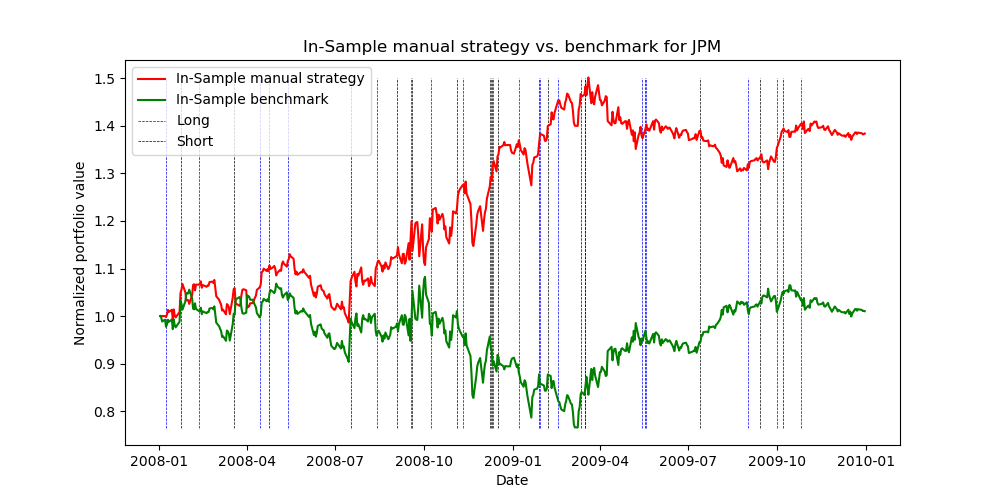
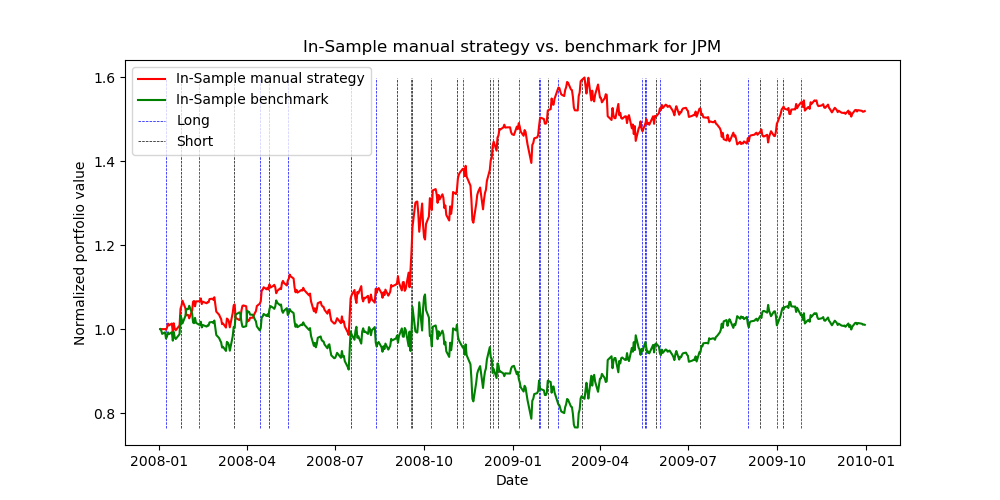
submit3

diff --git a/strategy_evaluation/testproject.py b/strategy_evaluation/testproject.py
@@ -15,7 +15,7 @@ if __name__ == "__main__":
     msms = ManualStrategy.ManualStrategy()
     msms.compareManual(symbol='JPM', sd=dt.datetime(2008, 1, 1), ed=dt.datetime(2009, 12, 31), sv=100000, sample="In-Sample")
     msms.compareManual(symbol='JPM', sd=dt.datetime(2010, 1, 1), ed=dt.datetime(2011, 12, 31), sv=100000, sample="Out-Sample")
-    np.random.seed(1234)
+    np.random.seed(1234567)
     exp1_result()
     np.random.seed(1234567)
     exp2_result()

diff --git a/strategy_evaluation/StrategyLearner.py b/strategy_evaluation/StrategyLearner.py
@@ -62,7 +62,7 @@ class StrategyLearner(object):
         self.impact = impact  		  	   		   	 		  		  		    	 		 		   		 		  
         self.commission = commission
         self.learner = bl.BagLearner(learner=rl.RTLearner, kwargs={"leaf_size":5}, bags=25)
-        self.window = 21
+        self.window = 20
 
         self.YBUY = 0.012
         self.YSELL = -0.012

diff --git a/strategy_evaluation/experiment1.py b/strategy_evaluation/experiment1.py
@@ -67,6 +67,6 @@ def exp1_result(symbol='JPM', sd=dt.datetime(2008, 1, 1), ed=dt.datetime(2009, 1
     plt.savefig('exp1.png')
 
 if __name__ == "__main__":
-    np.random.seed(1234)
+    np.random.seed(1234567)
 
     exp1_result()

diff --git a/strategy_evaluation/ManualStrategy.py b/strategy_evaluation/ManualStrategy.py
@@ -29,7 +29,7 @@ class ManualStrategy(object):
         self.verbose = verbose
         self.impact = impact
         self.commission = commission
-        self.window = 21
+        self.window = 20
 
 
     def author(self):
